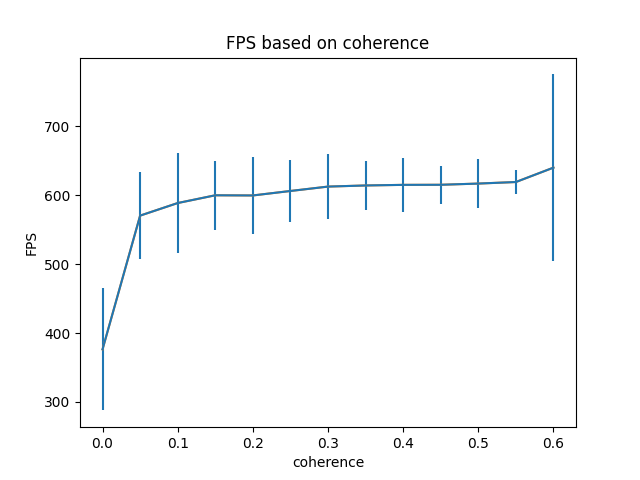
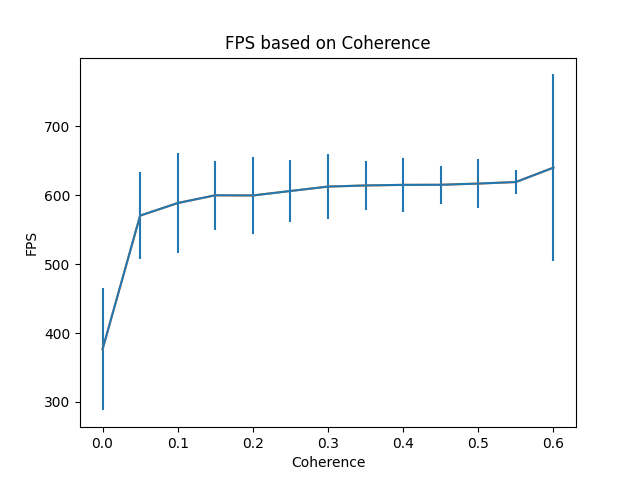
Add new graphs

Changed region(s): [[0.3438, 0.0625, 0.6875, 0.125], [0.4375, 0.9375, 0.5625, 0.9688]]

diff --git a/eval/eval.py b/eval/eval.py
@@ -21,7 +21,7 @@ def get_stddev():
     return stdev
 
 fps = [0, 0, 0, 0]
-thresholds = [0.0, 2.0, 4.0, 8.0]
+thresholds = [2.0, 4.0, 8.0]
 
 def get_fps(file, it):
     with open(file, newline='') as csvfile:
@@ -66,7 +66,7 @@ def fps_result():
 
     plt.errorbar(thresholds, actual_fps, stdev)
     plt.plot(thresholds, actual_fps)
-    plt.xlabel('nth interpolated')
+    plt.xlabel('nth ray marched')
     plt.ylabel('FPS difference')
     plt.title('FPS based on n')
 
@@ -122,7 +122,7 @@ def ssim_result():
 
     plt.errorbar(thresholds, actual_ssim, stdev)
     plt.plot(thresholds, actual_ssim)
-    plt.xlabel('nth interpolated')
+    plt.xlabel('nth ray marched')
     plt.ylabel('SSIM Value')
     plt.title('SSIM')
 
@@ -147,15 +147,15 @@ def main():
     root = str(pathlib.Path().resolve())
 
     # Get graph of FPS vs n
-    fps_walk(root + '/fps')
-    fps_result()
+    #fps_walk(root + '/fps')
+    #fps_result()
 
     positions = 5
 
-    #for pos in range(1,positions+1):
-        #ssim_reset(str(pos))
-        #ssim_walk(root + '/img')
-        #ssim_result()
+    for pos in range(1,positions+1):
+        ssim_reset(str(pos))
+        ssim_walk(root + '/img')
+        ssim_result()
 
 if __name__ == "__main__":
     main()

diff --git a/eval/coherence.py b/eval/coherence.py
@@ -63,9 +63,9 @@ def fps_result():
 
     plt.errorbar(coherences, actual_fps, stdev)
     plt.plot(coherences, actual_fps)
-    plt.xlabel('coherence')
+    plt.xlabel('Coherence')
     plt.ylabel('FPS')
-    plt.title('FPS based on coherence')
+    plt.title('FPS based on Coherence')
 
     plt.savefig('fpscoh.png')
 
@@ -130,9 +130,9 @@ def ssim_result():
 
     plt.errorbar(coherences, actual_ssim, stdev)
     plt.plot(coherences, actual_ssim)
-    plt.xlabel('coherence')
+    plt.xlabel('Coherence')
     plt.ylabel('SSIM Value')
-    plt.title('SSIM')
+    plt.title('SSIM based on Coherence')
 
     plt.savefig(str(pathlib.Path().resolve()) + '/graphs/coherence-ssim.png')
 
@@ -154,12 +154,12 @@ def main():
     root = str(pathlib.Path().resolve())
 
     # Get graph of FPS vs n
-    #fps_walk(root + '/coherence/fps')
-    #fps_result()
+    fps_walk(root + '/coherence/fps')
+    fps_result()
 
     #ssim_reset()
-    ssim_walk(root + '/coherence/img')
-    ssim_result()
+    #ssim_walk(root + '/coherence/img')
+    #ssim_result()
 
 if __name__ == "__main__":
     main()

diff --git a/eval/coverage.py b/eval/coverage.py
@@ -118,7 +118,7 @@ def ssim_result():
 
     plt.errorbar(thresholds, actual_ssim, stdev)
     plt.plot(thresholds, actual_ssim)
-    plt.xlabel('nth interpolated')
+    plt.xlabel('nth ray marched')
     plt.ylabel('SSIM Value')
     plt.title('SSIM')
 
@@ -143,14 +143,14 @@ def main():
     root = str(pathlib.Path().resolve())
 
     # Get graph of FPS vs n
-    fps_walk(root + '/coverage/fps')
-    fps_result()
+    #fps_walk(root + '/coverage/fps')
+    #fps_result()
 
-    #cov = 0.5
+    cov = 0.1
 
-    #ssim_reset(str(cov))
-    #ssim_walk(root + '/coverage/img')
-    #ssim_result()
+    ssim_reset(str(cov))
+    ssim_walk(root + '/coverage/img')
+    ssim_result()
 
 if __name__ == "__main__":
     main()
